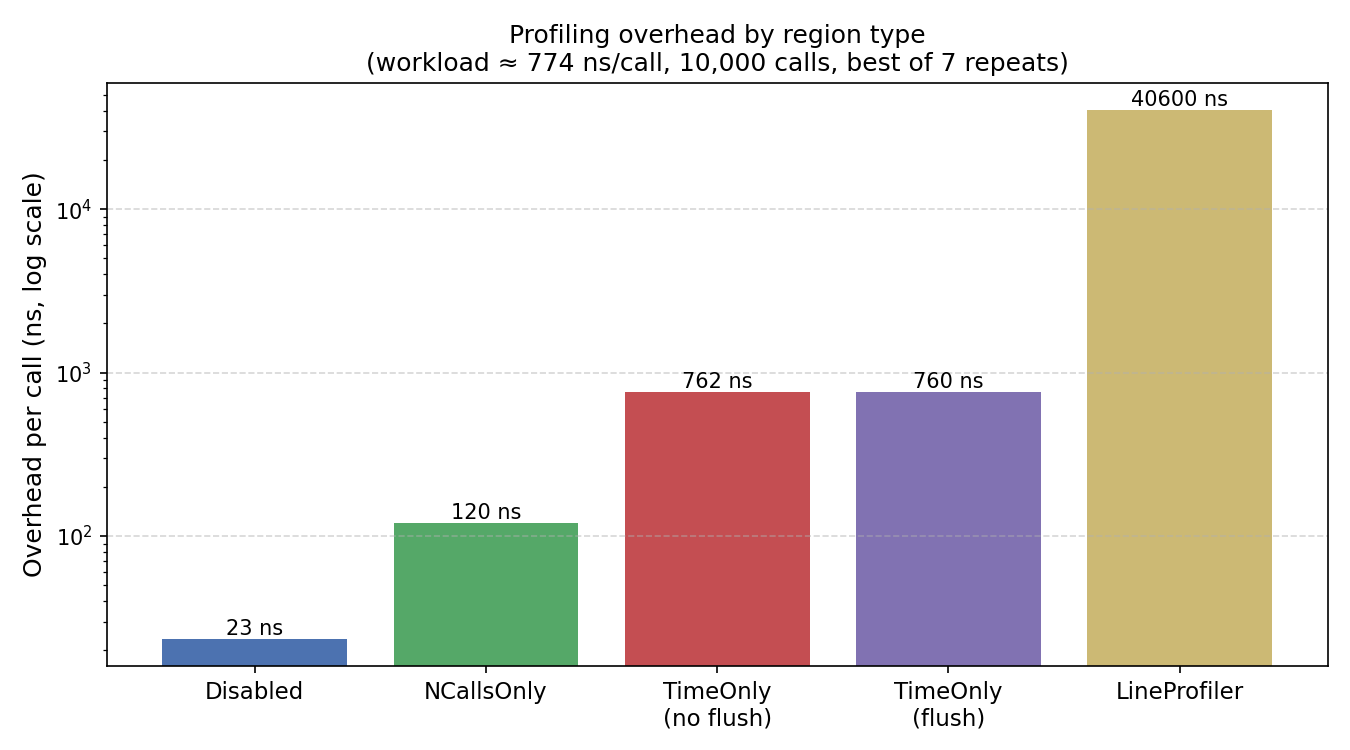
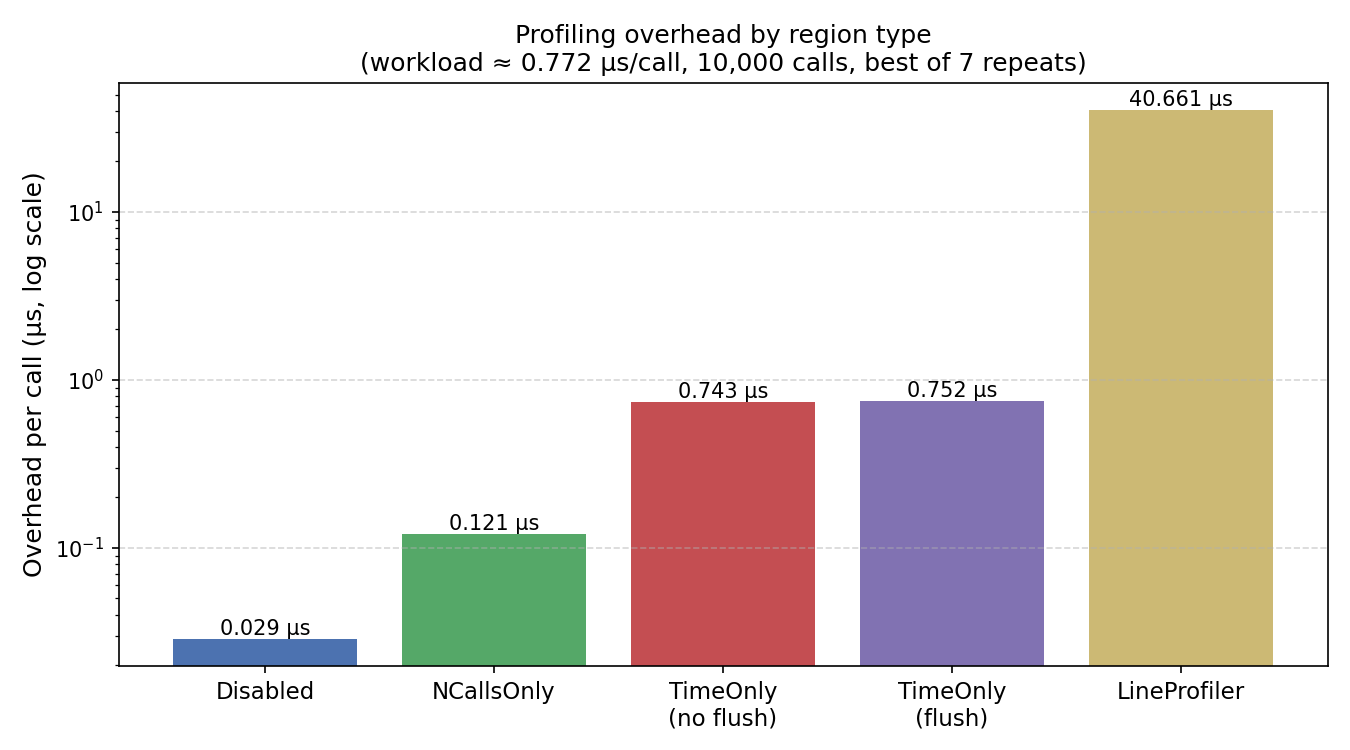
nano seconds to micro seconds

diff --git a/examples/benchmark_overhead.py b/examples/benchmark_overhead.py
@@ -118,47 +118,47 @@ def main():
         ProfileManager.finalize(verbose=False)
 
     # ---- Print results table ----
-    print(
-        f"\nBaseline per call: {baseline_per_call:.0f} ns "
-        f"({baseline_per_call / 1000:.2f} µs)\n"
-    )
+    print(f"\nBaseline per call: {baseline_per_call / 1e3:.3f} µs\n")
     header = (
-        f"{'Region type':<22} {'Total/call (ns)':>16} "
-        f"{'Overhead/call (ns)':>20} {'Relative':>10}"
+        f"{'Region type':<22} {'Total/call (µs)':>16} "
+        f"{'Overhead/call (µs)':>20} {'Relative':>10}"
     )
     print(header)
     print("-" * len(header))
     for name, total, overhead in zip(names, totals_ns, overheads_ns):
         label = name.replace("\n", " ")
         pct = overhead / baseline_per_call * 100
-        print(f"{label:<22} {total:>16.0f} {overhead:>20.0f} {pct:>+9.1f}%")
+        print(
+            f"{label:<22} {total / 1e3:>16.3f} {overhead / 1e3:>20.3f} {pct:>+9.1f}%"
+        )
 
     # ---- Bar chart (log scale so all bars are readable) ----
     fig, ax = plt.subplots(figsize=(9, 5))
     x = np.arange(len(names))
     colors = ["#4c72b0", "#55a868", "#c44e52", "#8172b2", "#ccb974"]
-    # Clamp negatives to 1 ns so log scale doesn't break
-    plot_vals = [max(v, 1) for v in overheads_ns]
+    # Convert to µs; clamp negatives to 0.001 µs so log scale doesn't break
+    overheads_us = [v / 1e3 for v in overheads_ns]
+    plot_vals = [max(v, 0.001) for v in overheads_us]
     bars = ax.bar(x, plot_vals, color=colors[: len(names)])
 
     ax.set_yscale("log")
     ax.set_xticks(x)
     ax.set_xticklabels(names, fontsize=11)
-    ax.set_ylabel("Overhead per call (ns, log scale)", fontsize=12)
+    ax.set_ylabel("Overhead per call (µs, log scale)", fontsize=12)
     ax.set_title(
         f"Profiling overhead by region type\n"
-        f"(workload ≈ {baseline_per_call:.0f} ns/call, "
+        f"(workload ≈ {baseline_per_call / 1e3:.3f} µs/call, "
         f"{NUM_CALLS:,} calls, best of {NUM_REPEATS} repeats)",
         fontsize=12,
     )
     ax.grid(axis="y", linestyle="--", alpha=0.5)
 
     # Annotate each bar with its value
-    for bar, val in zip(bars, overheads_ns):
+    for bar, val in zip(bars, overheads_us):
         ax.text(
             bar.get_x() + bar.get_width() / 2,
             bar.get_height(),
-            f"{val:.0f} ns",
+            f"{val:.3f} µs",
             ha="center",
             va="bottom",
             fontsize=10,

diff --git a/docs/source/guide/overhead.md b/docs/source/guide/overhead.md
@@ -24,33 +24,33 @@ python examples/benchmark_overhead.py --show   # display interactively
 
 | Region type             | Overhead / call |
 | ----------------------- | --------------: |
-| **Disabled**            |          ~45 ns |
-| **NCallsOnly**          |          ~74 ns |
-| **TimeOnly (no flush)** |         ~683 ns |
-| **TimeOnly (flush)**    |         ~696 ns |
-| **LineProfiler**        |      ~39,357 ns |
+| **Disabled**            |       ~0.03 µs  |
+| **NCallsOnly**          |       ~0.09 µs  |
+| **TimeOnly (no flush)** |       ~0.74 µs  |
+| **TimeOnly (flush)**    |       ~0.76 µs  |
+| **LineProfiler**        |       ~41 µs    |
 
 _(Numbers measured on an Apple M-series CPU; absolute values will vary,
 but the relative ordering is stable.)_
 
 ## What this means for HPC
 
-The **TimeOnly** mode --- the default and most commonly used --- adds
-roughly **700 ns** per instrumented call. In practice:
+The **TimeOnly** mode — the default and most commonly used — adds
+roughly **0.75 µs** per instrumented call. In practice:
 
-- A 64x64 matrix multiply takes ~36 µs, so the overhead is **< 2 %**.
-- A 256x256 matrix multiply takes ~780 µs, giving **< 0.1 %** overhead.
+- A 64×64 matrix multiply takes ~36 µs, so the overhead is **< 2 %**.
+- A 256×256 matrix multiply takes ~780 µs, giving **< 0.1 %** overhead.
 - Typical simulation time steps run for milliseconds or longer, making
   the overhead unmeasurable.
 
 The profiler can also be **fully deactivated** at startup
 (`profiling_activated=False`) without removing any instrumentation from
-the source code. In this mode the overhead drops to ~45 ns --- just the
-cost of the Python wrapper function call.
+the source code. In this mode the overhead drops to ~0.03 µs — barely
+above the cost of a bare function call.
 
 ## LineProfiler
 
-The `line_profiler` mode is intentionally heavier (~40 µs per call)
+The `line_profiler` mode is intentionally heavier (~41 µs per call)
 because it instruments every source line in the profiled function. It
 is meant for **targeted debugging of individual functions**, not for
 always-on use in hot loops.
@@ -61,4 +61,4 @@ The difference between "TimeOnly (no flush)" and "TimeOnly (flush)" is
 negligible in the benchmark because flushing is **amortized**: data is
 only written to HDF5 when the in-memory buffer is full (default:
 100,000 events). A single flush takes a few milliseconds but occurs
-only once per 100k calls, adding < 100 ns per call on average.
+only once per 100k calls, adding < 0.1 µs per call on average.

diff --git a/README.md b/README.md
@@ -79,14 +79,14 @@ against a bare function call:
 
 ![Profiling overhead by region type](figures/benchmark_overhead.png)
 
-The two modes most relevant to HPC **NCallsOnly** and **TimeOnly** - add
-roughly **50 ns** and **700 ns** per instrumented call respectively.
+The two modes most relevant to HPC — **NCallsOnly** and **TimeOnly** — add
+roughly **0.09 µs** and **0.75 µs** per instrumented call respectively.
 
 Profiling can also be fully deactivated at setup time
-(`profiling_activated=False`) to reduce the overhead to a single
-branch in the wrapper, making it safe to leave instrumentation in
+(`profiling_activated=False`) to reduce the overhead to ~0.03 µs — barely
+above a bare function call — making it safe to leave instrumentation in
 production code and toggle it on only when needed.
 
-The **LineProfiler** mode is intentionally heavier (~40 ms/call) because
+The **LineProfiler** mode is intentionally heavier (~41 µs/call) because
 `line_profiler` traces every source line. It is designed for targeted
 debugging of individual functions, not for always-on use in hot loops.
